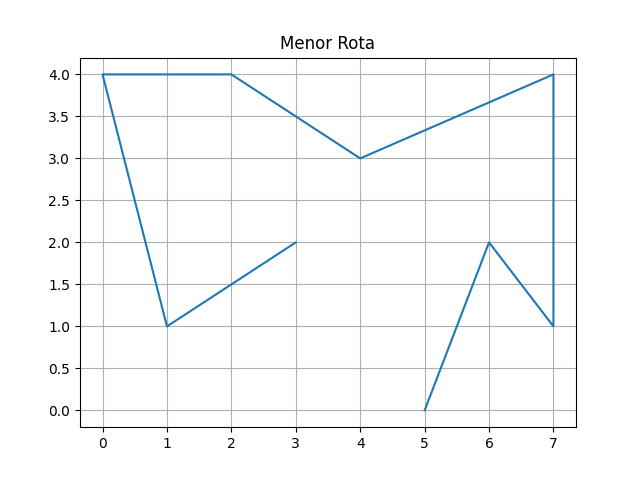
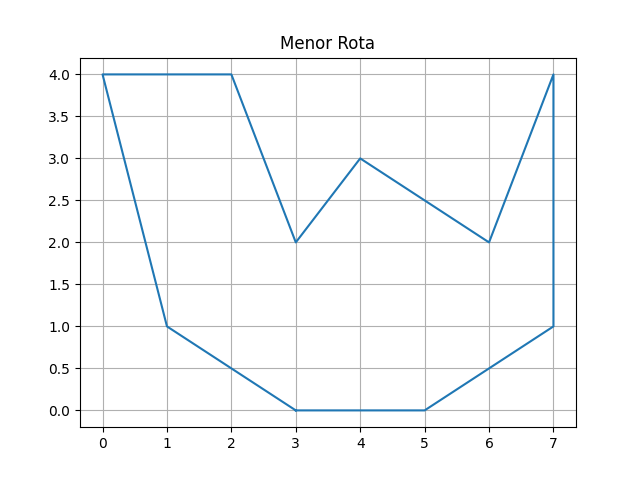
fix grafico

diff --git a/plotarGrafico.py b/plotarGrafico.py
@@ -6,8 +6,10 @@ dirPosicoes = main.dirPosicoes
 results = main.results
 
 def plotarGrafico():
+       setPosicaoGrafico("R",dirPosicoes)
        for i in results.split():
               setPosicaoGrafico(i, dirPosicoes)
+       setPosicaoGrafico("R", dirPosicoes)
 
 def setPosicaoGrafico(i, dirPosicoes):
        x.append(dirPosicoes[i][0])

diff --git a/permutation.py b/permutation.py
@@ -6,7 +6,7 @@
 
 def permutacoes(entrada):
     permutacaoAtual = []
-    if len(entrada) <= 1:
+    if len(entrada) <= 0:
         return [entrada]
     for i in range(len(entrada)):
         corteLista = entrada[:i] + entrada[i + 1:]
